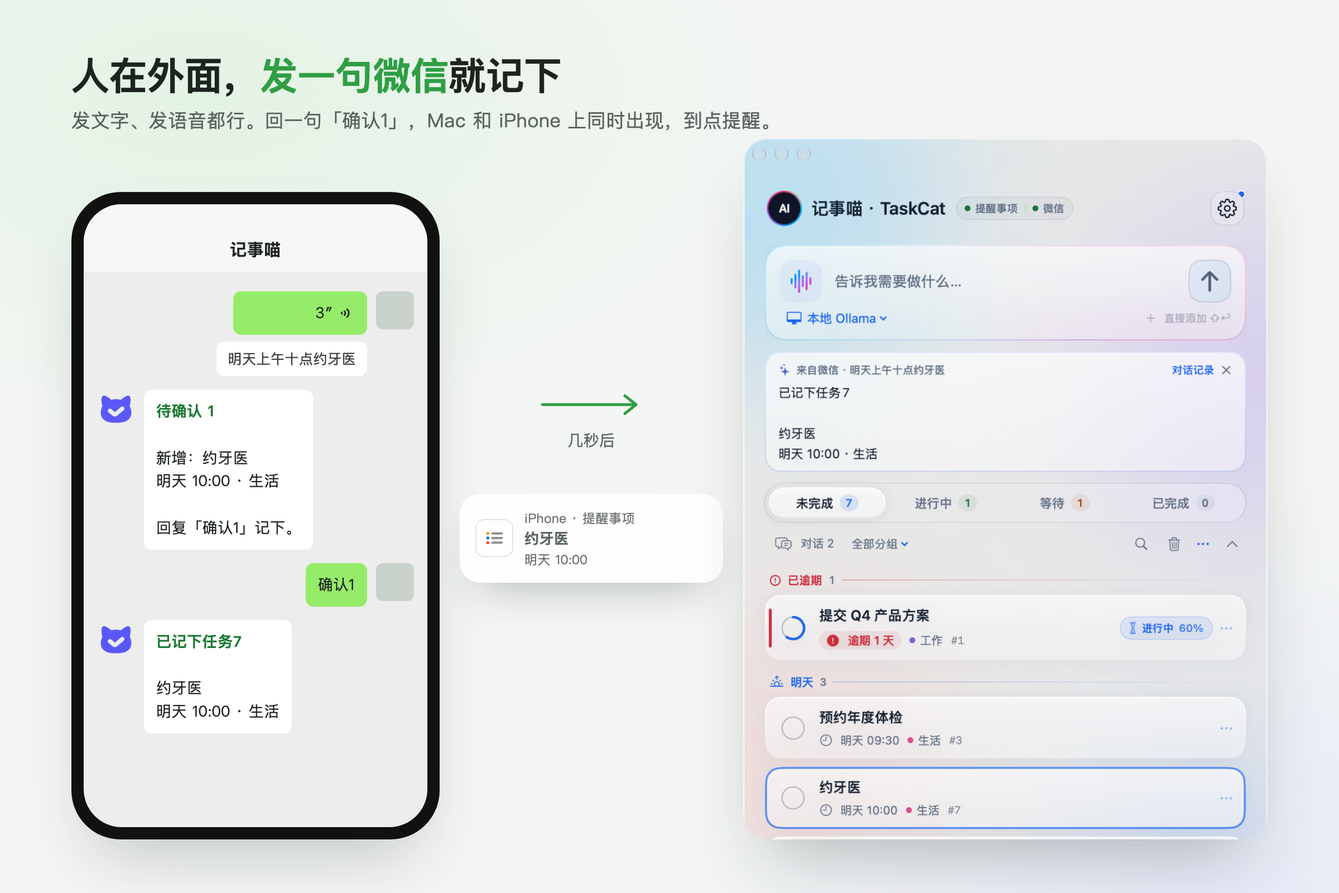
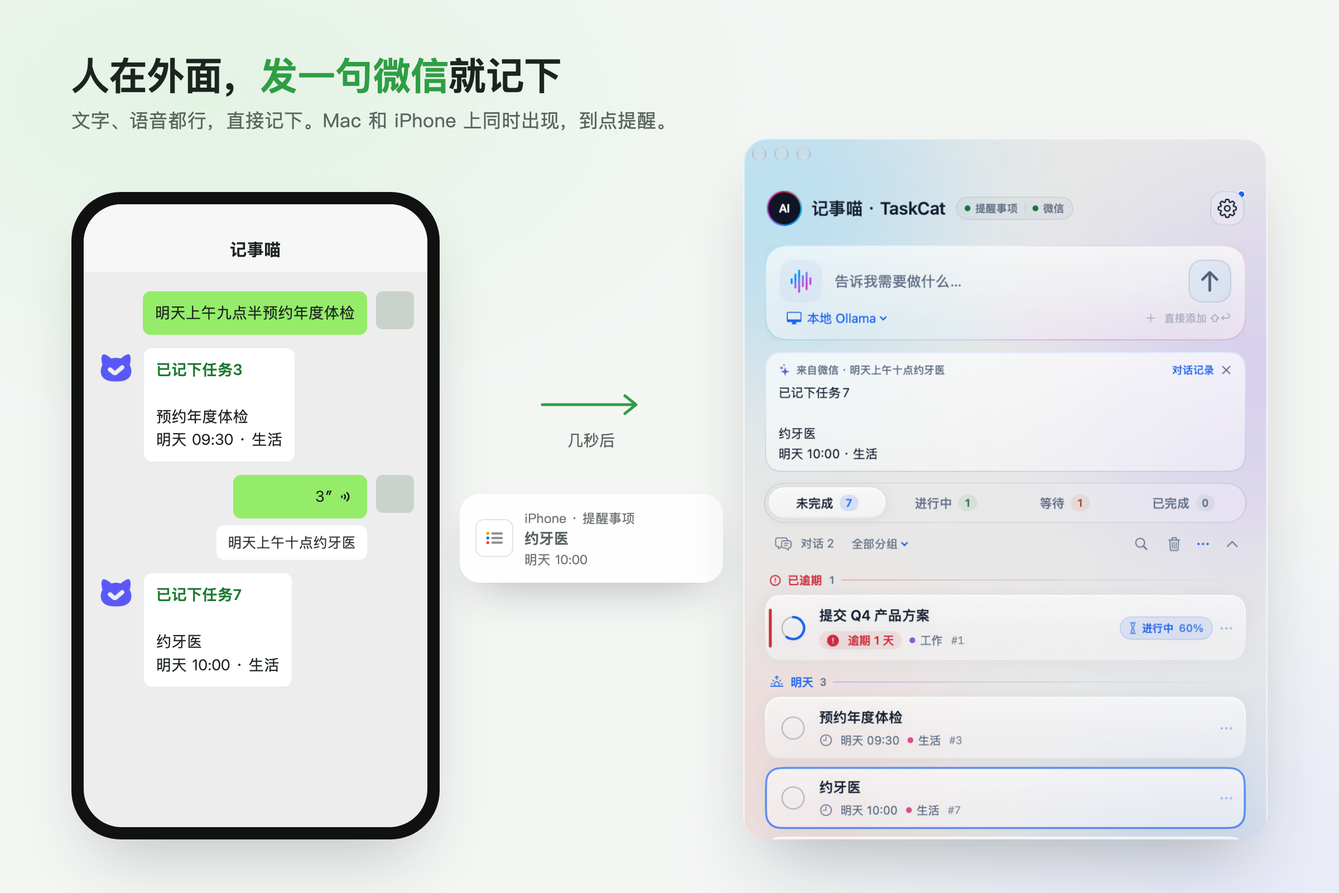
只在拿不准时让用户确认：说清楚的新增、改期、完成直接执行

diff --git a/apps/macos/Sources/TaskService.swift b/apps/macos/Sources/TaskService.swift
@@ -110,10 +110,11 @@ final class TaskService: ObservableObject {
             if let data=try? Data(contentsOf:AppPaths.preferences),let p=try? JSONDecoder().decode(ModelPreferences.self,from:data) { preferences=p }
             if let data=try? Data(contentsOf:AppPaths.root.appendingPathComponent("task-numbers.json")) {taskNumbers=try JSONDecoder().decode(TaskNumbers.self,from:data)}
             preferences.migrateProfiles()
-            // Local models always required confirmation before; keep that as the starting point.
-            if !UserDefaults.standard.bool(forKey:"TaskSecretary.confirmMigrated") {
-                if preferences.provider != "cloud" {preferences.confirmAll=true;try? AppPaths.write(preferences,to:AppPaths.preferences)}
-                UserDefaults.standard.set(true,forKey:"TaskSecretary.confirmMigrated")
+            // Earlier versions turned "confirm everything" on for local models; confirmation is now
+            // asked only when a request is uncertain, so reset that automatic default once.
+            if !UserDefaults.standard.bool(forKey:"TaskSecretary.confirmWhenUnsure") {
+                if preferences.confirmAll {preferences.confirmAll=false;try? AppPaths.write(preferences,to:AppPaths.preferences)}
+                UserDefaults.standard.set(true,forKey:"TaskSecretary.confirmWhenUnsure")
             }
             loadExperiencePreferences()
             let file=AppPaths.root.appendingPathComponent("actor.json")
@@ -272,7 +273,7 @@ final class TaskService: ObservableObject {
             processingStage="正在校验操作与日期"
             command=try ConversationRules.cleanCreation(ConversationRules.scopeQuery(ConversationRules.refine(command,input:input),input:input,groups:groups),input:input,groups:groups)
             command=try TaskCommand.decode(JSONEncoder().encode(command),expectedId:id,tasks:snapshot)
-            if preferences.confirmAll { command.requiresConfirmation=true }
+            command.requiresConfirmation=preferences.confirmAll || ConversationRules.needsConfirmation(command,input:input,tasks:snapshot,numbers:taskNumbers)
             record!.command=command
             if command.intent=="clarify" { throw AppFailure.message("还不能确定要处理哪件事，请补充具体任务名称或操作。") }
             if command.intent=="query_tasks" {
@@ -478,7 +479,7 @@ final class TaskService: ObservableObject {
         if input.hasPrefix("手动新增任务：") || input.hasPrefix("手动新增任务:") {
             let title=String(input.dropFirst(7)).trimmingCharacters(in:.whitespacesAndNewlines)
             guard !title.isEmpty else{throw AppFailure.message("请提供任务标题。")}
-            return command("create_task",patch:["title":.text(title),"groupId":.text("inbox")],confirm:true)
+            return command("create_task",patch:["title":.text(title),"groupId":.text("inbox")])
         }
         if let groupCommand=try GroupConversation.command(input,id:id,groups:groups) {return groupCommand}
         if ["查看分组","查询分组","有哪些分组","几个分组","列出分组"].contains(where:input.contains) {return command("query_groups")}
@@ -501,14 +502,14 @@ final class TaskService: ObservableObject {
                 guard let group=TaskGroup.named(part) else{throw AppFailure.message("分组名称无效。")}
                 return command("move_task",task:task.id,patch:["groupId":.text(group.rawValue)])
             }
-            if input.contains("待测试") || input.contains("待验收") {return command("update_task",task:task.id,patch:["status":.text("waiting")],date:DateSuggestion.explicitDateText(in:input),confirm:DateSuggestion.explicitDateText(in:input) != nil)}
-            if ["标记完成","已完成","完成了"].contains(where:input.contains),DateSuggestion.explicitDateText(in:input)==nil,!["明天","下周","之前","计划","准备"].contains(where:input.contains) {return command("complete_task",task:task.id,confirm:true)}
-            if input.contains("删除") {return command("delete_task",task:task.id,confirm:true)}
+            if input.contains("待测试") || input.contains("待验收") {return command("update_task",task:task.id,patch:["status":.text("waiting")],date:DateSuggestion.explicitDateText(in:input))}
+            if ["标记完成","已完成","完成了"].contains(where:input.contains),DateSuggestion.explicitDateText(in:input)==nil,!["明天","下周","之前","计划","准备"].contains(where:input.contains) {return command("complete_task",task:task.id)}
+            if input.contains("删除") {return command("delete_task",task:task.id)}
             if let range=input.range(of:#"进度\s*(10|20|30|40|50|60|70|80|90|100)\s*%?$"#,options:.regularExpression) {
                 let value=Int(input[range].filter(\.isNumber))!
-                return command("update_task",task:task.id,patch:["progress":.number(value)],confirm:true)
+                return command("update_task",task:task.id,patch:["progress":.number(value)])
             }
-            if ["重新打开","撤销完成","恢复待办"].contains(where:input.contains) {return command("reopen_task",task:task.id,confirm:true)}
+            if ["重新打开","撤销完成","恢复待办"].contains(where:input.contains) {return command("reopen_task",task:task.id)}
 
         }
         if ConversationRules.isQuery(input) {

diff --git a/docs/site.js b/docs/site.js
@@ -17,7 +17,7 @@
     {n:3,title:'预约年度体检',meta:'生活',when:'明天 09:30',done:false},
     {n:5,title:'整理周会纪要发给团队',meta:'工作',when:'周五 10:00',done:false}
   ];
-  let pending=null,code=0,model='本地 Ollama';
+  let model='本地 Ollama';
   const reduce=matchMedia('(prefers-reduced-motion: reduce)').matches;
   const wait=ms=>new Promise(r=>setTimeout(r,reduce?0:ms));
   function add(text,me=false){
@@ -54,32 +54,20 @@
     return {title,when:`${day} ${String(h).padStart(2,'0')}:${String(m).padStart(2,'0')}`,group};
   }
   function reply(text){
-    const confirm=text.match(/^(确认|取消)\s*(\d+)$/),move=text.match(/任务\s*(\d+).*改到(.+)$/),done=text.match(/任务\s*(\d+)\s*(?:标记)?完成/);
-    if(confirm){
-      if(!pending||Number(confirm[2])!==pending.code)return '没有找到这条待确认的操作。';
-      const p=pending;pending=null;
-      if(confirm[1]==='取消')return '已取消，任务没有改动。';
-      if(p.kind==='add'){
-        const n=Math.max(...tasks.map(t=>t.n))+1;
-        tasks.push({n,title:p.item.title,meta:p.item.group,when:p.item.when,done:false});
-        return `已记下任务${n}\n\n${p.item.title}\n${p.item.when} · ${p.item.group}\n\n已同步到 Mac 和 iPhone 的提醒事项，到点会提醒你。`;
-      }
-      if(p.kind==='move'){p.task.when=p.when;return `已调整任务${p.task.n}\n\n${p.task.title}\n${p.when}`;}
-      p.task.done=true;return `已完成任务${p.task.n}\n\n${p.task.title}\n又少一件惦记的事。`;
-    }
+    const move=text.match(/任务\s*(\d+).*改到(.+)$/),done=text.match(/任务\s*(\d+)\s*(?:标记)?完成/);
     if(move||done){
       const n=Number((move||done)[1]),task=tasks.find(t=>t.n===n);
       if(!task)return `没有找到任务${n}，先发“这周还有什么”核对编号。`;
       if(done&&task.done)return `任务${n}已经完成了。`;
-      code+=1;
-      if(move){const when=move[2].replace(/[。！!]$/,'').trim()||'下周一';pending={code,kind:'move',task,when:when.includes('下周一')?'下周一 09:30':when};return `待确认 ${code}\n\n${task.title}\n改到 ${pending.when}\n\n回复「确认${code}」执行，或「取消${code}」。`;}
-      pending={code,kind:'done',task};return `待确认 ${code}\n\n标记完成：${task.title}\n\n回复「确认${code}」执行，或「取消${code}」。`;
+      if(move){const when=move[2].replace(/[。！!]$/,'').trim()||'下周一';task.when=when.includes('下周一')?'下周一 09:30':when;return `已调整任务${n}\n\n${task.title}\n${task.when}`;}
+      task.done=true;return `已完成任务${n}\n\n${task.title}\n又少一件惦记的事。`;
     }
-    // Dated commands always ask for a short confirmation first, as in the app.
+    // Clear requests apply at once, as in the app; it only asks when unsure.
     const item=capture(text);
     if(item){
-      code+=1;pending={code,kind:'add',item};
-      return `待确认 ${code}\n\n新增：${item.title}\n${item.when} · ${item.group}\n\n回复「确认${code}」记下。`;
+      const n=Math.max(...tasks.map(t=>t.n))+1;
+      tasks.push({n,title:item.title,meta:item.group,when:item.when,done:false});
+      return `已记下任务${n}\n\n${item.title}\n${item.when} · ${item.group}\n\n已同步到 Mac 和 iPhone 的提醒事项，到点会提醒你。`;
     }
     if(/模型/.test(text)){
       if(/切换|换成|改用/.test(text)){model=/云/.test(text)?'云端模型':'本地 Ollama';return `已切换到 ${model}。`;}
@@ -92,15 +80,9 @@
   async function send(text){
     text=text.trim();if(!text||busy)return;busy=true;add(text,true);input.value='';
     await wait(420);add(reply(text));busy=false;
-    // Offer the confirmation reply as the next suggestion so the flow is one click.
-    const confirmButton=document.getElementById('confirm-suggest');
-    if(pending){
-      const b=confirmButton||Object.assign(document.createElement('button'),{type:'button',id:'confirm-suggest'});
-      b.textContent=`确认${pending.code}`;b.dataset.say=`确认${pending.code}`;document.getElementById('suggest').prepend(b);
-    } else confirmButton?.remove();
   }
   form.addEventListener('submit',e=>{e.preventDefault();send(input.value);});
   document.getElementById('suggest').addEventListener('click',e=>{const b=e.target.closest('button');if(b)send(b.dataset.say);});
   // Open with one capture so the panel shows the main use before anyone types.
-  const first='明天下午三点交季度报告';add(first,true);add(reply(first));add('确认1',true);add(reply('确认1'));
+  const first='明天下午三点交季度报告';add(first,true);add(reply(first));
 })();

diff --git a/docs/index.html b/docs/index.html
@@ -71,7 +71,7 @@
       </div>
       <div class="pain reveal">
         <p class="before">人在外面想起一件事，只能先发给文件传输助手，回到电脑前再抄一遍。多半就忘了抄。</p>
-        <p class="after">直接发微信给记事喵：“明天下午三点交方案”。回一句“确认1”，任务就进了 Mac 和 iPhone 的提醒事项。</p>
+        <p class="after">直接发微信给记事喵：“明天下午三点交方案”。几秒后，任务就进了 Mac 和 iPhone 的提醒事项。</p>
       </div>
     </div>
   </section>
@@ -112,8 +112,8 @@
     <div class="wrap wechat-grid">
       <div class="wechat-copy reveal">
         <h2 id="wechat-title">微信随手记。</h2>
-        <p>出门在外，想到什么就给记事喵发一句话。它理解时间和分组，先回你一条核对，回复“确认1”就记下：Mac 菜单栏和 iPhone 提醒事项同时出现，到点照常提醒。</p>
-        <p>带时间的指令都会先让你核对一眼，免得听错日期。查这周安排、改时间、标完成，也都在同一个对话里。</p>
+        <p>出门在外，想到什么就给记事喵发一句话。它理解时间和分组，直接记下：Mac 菜单栏和 iPhone 提醒事项同时出现，到点照常提醒。</p>
+        <p>只有拿不准的时候才会问你，比如没说清是哪件事，或者日期太含糊。查这周安排、改时间、标完成，也都在同一个对话里。</p>
         <p class="note">在设置里点“连接微信”，手机扫码即可，不需要另外安装。右边是浏览器里的本地演示，不连接微信或模型；真实使用需要 Mac 上的记事喵在运行。</p>
       </div>
       <div class="phone reveal" aria-label="微信对话演示">
@@ -175,7 +175,7 @@ cd taskcat && bash scripts/build-app.sh</code></pre>
       <details class="reveal"><summary>微信怎么连接？要装别的东西吗？</summary><p>不用。在设置的“微信”里点“连接微信”，用手机微信扫码确认就好。连接按腾讯官方开放的 iLink 协议实现，登录信息只存在你这台 Mac 上。同一个微信请只连接一台 Mac。</p></details>
       <details class="reveal"><summary>Mac 不常开，还能用吗？</summary><p>可以。任务同步到 iPhone 的提醒事项后，手机上照样能看、能改、能收到通知。只有 AI 理解、今日提醒和微信入口需要 Mac 上的记事喵在运行。</p></details>
       <details class="reveal"><summary>支持哪些 Mac？有 iPhone App 吗？</summary><p>macOS 14 以上，Apple Silicon 已实测，Intel 尚未验收。没有独立的 iPhone App，手机端用系统提醒事项。</p></details>
-      <details class="reveal"><summary>AI 理解错了怎么办？</summary><p>会改动任务的指令默认先给你确认，核对后再执行。点完成后几秒内也能撤销，删除的任务进回收站，可以恢复。</p></details>
+      <details class="reveal"><summary>AI 理解错了怎么办？</summary><p>拿不准的时候它会先问你；每条回复都写明记下的时间，不对就直接说“任务7改到周五”。点完成后几秒内也能撤销，删除的任务进回收站，可以恢复。</p></details>
     </div>
   </section>
 </main>

diff --git a/apps/macos/Sources/ConversationLogic.swift b/apps/macos/Sources/ConversationLogic.swift
@@ -61,6 +61,17 @@ struct ConversationRules {
         record.source==source && record.phase=="awaiting_confirmation" &&
         (record.confirmationNumber.map(String.init)==code || code.count==8 && record.id.hasPrefix(code))
     }
+    /// Ask only when unsure: the model said so, the target task was guessed rather than named,
+    /// or the date came from the model instead of the message. Group changes always ask.
+    static func needsConfirmation(_ c:TaskCommand,input:String,tasks:[ManagedTask],numbers:TaskNumbers)->Bool {
+        if c.requiresConfirmation || ["rename_group","delete_group"].contains(c.intent) {return true}
+        if let id=c.taskId,let task=tasks.first(where:{$0.id==id}) {
+            let named=taskNumber(input).map{numbers.values[id]==$0} ?? false
+            if !named && !input.localizedCaseInsensitiveContains(task.title) {return true}
+        }
+        if let date=c.dateText,DateSuggestion.date(for:date)==nil || DateSuggestion.explicitDateText(in:input)==nil {return true}
+        return false
+    }
     static func taskNumber(_ text:String)->Int? {
         guard let range=text.range(of:#"(?:任务|待办)\s*#?\s*[0-9]+"#,options:.regularExpression) else{return nil}
         let digits=text[range].filter{$0.isNumber};return Int(digits)
@@ -112,7 +123,7 @@ struct ConversationRules {
         }
         let extracted=["create_task","update_task","complete_task","reopen_task","move_task"].contains(intent) ? DateSuggestion.explicitDateText(in:input) : nil
         return TaskCommand(operationId:c.operationId,intent:intent,taskId:c.taskId,patch:patch,
-            dateText:extracted ?? c.dateText,requiresConfirmation:c.requiresConfirmation || extracted != nil)
+            dateText:extracted ?? c.dateText,requiresConfirmation:c.requiresConfirmation)
     }
 }
 

diff --git a/apps/macos/Sources/Domain.swift b/apps/macos/Sources/Domain.swift
@@ -163,16 +163,13 @@ struct TaskCommand: Codable, Equatable {
         }
         if case .number(let progress)=c.patch["progress"] {
             c.patch["progress"] = .number(max(10,min(100,Int((Double(progress)/10).rounded())*10)))
-            if progress >= 95 {c.patch["status"] = .text("done");c.requiresConfirmation=true}
+            if progress >= 95 {c.patch["status"] = .text("done")}
         }
         let restricted: [String: Set<String>] = ["rename_group":["groupId","newGroupId"],"delete_group":["groupId"],"create_group":["groupId"],"query_groups":[],"delete_task": [], "complete_task": ["status"], "reopen_task": ["status"], "move_task": ["groupId"], "query_tasks": ["groupId", "status"]]
         if let allowed=restricted[c.intent], !Set(c.patch.keys).isSubset(of:allowed) { throw AppFailure.message("模型命令包含与操作不符的修改，未执行。") }
         if c.intent=="complete_task", let status=c.text("status"),status != "done" { throw AppFailure.message("完成命令的状态不一致，未执行。") }
         if c.intent=="reopen_task", let status=c.text("status"),status != "todo" { throw AppFailure.message("重新打开命令的状态不一致，未执行。") }
         if c.intent == "move_task", c.text("groupId") == nil { throw AppFailure.message("请说明要移动到哪个分组。") }
-        if ["delete_task","complete_task","reopen_task"].contains(c.intent) || c.text("status") == "done" || c.text("status") == "cancelled" || c.dateText != nil || c.patch["title"] != nil && c.intent != "create_task" {
-            c.requiresConfirmation = true
-        }
         return c
     }
 }

diff --git a/apps/macos/Sources/Interface.swift b/apps/macos/Sources/Interface.swift
@@ -707,8 +707,8 @@ struct SettingsView:View {
                 Button("测试连接"){Task{await service.testModel()}}.buttonStyle(ConsoleButton())
                 Text(service.modelTestNotice).font(.system(size:11)).foregroundStyle(service.modelTestNotice.hasPrefix("连接成功") ? palette.success : palette.muted).lineLimit(2)
             }.disabled(service.uiBusy)
-            switchRow("AI 修改任务前先让我确认",$service.preferences.confirmAll)
-            note("本地模型理解偶有偏差，建议开启。查询类请求不需要确认。")
+            switchRow("每次修改任务都先让我确认",$service.preferences.confirmAll)
+            note("默认只在拿不准时确认：没说清是哪件任务、日期说得含糊，或要改动分组。")
             note("Key 只保存在这台 Mac 的应用配置目录，不进入备份或同步。使用云端模型时，会发送你的输入、近期操作和最多 100 项相关任务的标题、状态与分组；不发送备注。不配置模型也可以手动管理任务。")
         }.padding(18).consoleCard()
     }

diff --git a/tests/test_app_domain.py b/tests/test_app_domain.py
@@ -73,8 +73,10 @@ def test_bad_or_unrelated_changes_do_not_cross_boundary(domain_cli,tmp_path,c):
  {'intent':'delete_task','patch':{}},{'intent':'complete_task','patch':{}},
  {'intent':'reopen_task','patch':{}},{'patch':{'status':'done'}},
  {'patch':{'title':'新的打印模板'}},{'dateText':'下周五'}])
-def test_confirmation_cannot_be_bypassed_by_model(domain_cli,tmp_path,changes):
-    assert run(domain_cli,tmp_path,command(**changes))['requiresConfirmation'] is True
+def test_task_changes_follow_the_model_uncertainty_flag(domain_cli,tmp_path,changes):
+    # Whether to ask is decided later from the message itself (ConversationRules.needsConfirmation).
+    assert run(domain_cli,tmp_path,command(**changes))['requiresConfirmation'] is False
+    assert run(domain_cli,tmp_path,command(**changes,requiresConfirmation=True))['requiresConfirmation'] is True
 
 @pytest.mark.parametrize('url,valid,endpoint',[
  ('https://example.test/v1',True,'https://example.test/v1/chat/completions'),
@@ -123,10 +125,9 @@ def test_group_alias_normalizes_before_query_and_write(domain_cli,tmp_path):
 
 
 @pytest.mark.parametrize('top',['周日晚上8:00',None])
-def test_local_model_nested_date_canonicalizes_and_still_requires_confirmation(domain_cli,tmp_path,top):
+def test_local_model_nested_date_canonicalizes(domain_cli,tmp_path,top):
     result=run(domain_cli,tmp_path,command(patch={'dateText':'周日晚上8:00'},dateText=top))
     assert result['dateText']=='周日晚上8:00' and result['patch']=={}
-    assert result['requiresConfirmation'] is True
 
 
 @pytest.mark.parametrize('patch,top',[
@@ -156,10 +157,10 @@ def test_inbox_and_permanent_deletion_cannot_be_bypassed_by_model(domain_cli,tmp
     run(domain_cli,tmp_path,command(intent=intent,taskId=None if 'group' in intent else TASK,patch=patch),expected=2)
 
 @pytest.mark.parametrize('progress,result',[(1,10),(24,20),(35,40),(87,90),(94,90),(95,100),(100,100)])
-def test_progress_uses_ten_point_steps_and_completion_confirmation(domain_cli,tmp_path,progress,result):
+def test_progress_uses_ten_point_steps_and_full_progress_completes(domain_cli,tmp_path,progress,result):
     c=run(domain_cli,tmp_path,command(patch={'progress':progress}))
     assert c['patch']['progress']==result
-    if result==100:assert c['patch']['status']=='done' and c['requiresConfirmation']
+    if result==100:assert c['patch']['status']=='done' and not c['requiresConfirmation']
 
 
 def test_unsaved_profile_origin_changes_cannot_reuse_old_credentials(domain_cli):

diff --git a/tests/test_conversation_rules.py b/tests/test_conversation_rules.py
@@ -95,6 +95,11 @@ def rules_cli(tmp_path_factory):
   case "refine":
    let c=TaskCommand(operationId:"op",intent:"complete_task",taskId:"a",patch:["status":.text("done")],dateText:nil,requiresConfirmation:false)
    let refined=ConversationRules.refine(c,input:a[2]);print(refined.intent+":"+(refined.text("status") ?? "")+":"+(refined.dateText ?? "nil"))
+  case "needs":
+   var n=TaskNumbers();n.assign(tasks)
+   let target:String?=a[3]=="-" ? nil : a[3]
+   let c=TaskCommand(operationId:"op",intent:a[2],taskId:target,patch:a[2]=="create_task" ? ["title":.text("合成")] : a[2]=="delete_group" ? ["groupId":.text("wenshu")] : [:],dateText:a[5]=="-" ? nil : a[5],requiresConfirmation:a[6]=="model-unsure")
+   print(ConversationRules.needsConfirmation(c,input:a[4],tasks:tasks,numbers:n) ? "ask" : "apply")
   case "group":print(TaskGroup(rawValue:a[2]).map{$0.rawValue+"|"+$0.calendarTitle+"|"+$0.uuid} ?? "nil")
   case "defaults":print(TaskGroup.allCases.map(\.calendarTitle).joined(separator:","))
   default: fatalError()
@@ -274,3 +279,19 @@ def test_search_matches_title_notes_or_group(rules_cli,query,expected):assert ru
  ('2026-10-23T09:00:00Z','monday','2026-10-26T09:00:00Z'),     # today 17:00 -> next Monday 17:00
  ('none','monday','2026-10-26T01:00:00Z')])
 def test_postpone_keeps_time_of_day(rules_cli,due,mode,expected):assert run(rules_cli,'postpone',due,mode)==expected
+
+# Numbers follow task ids: a=1, b=2. Only uncertain requests ask the user to confirm.
+@pytest.mark.parametrize('intent,task,text,date,flag,expected',[
+ ('create_task','-','明天上午十点约牙医','明天上午十点','-','apply'),
+ ('create_task','-','买猫粮','-','-','apply'),
+ ('update_task','a','任务1改到明天下午三点','明天下午三点','-','apply'),
+ ('complete_task','a','合成_任务_a 做完了','-','-','apply'),
+ ('delete_task','b','任务2删除','-','-','apply'),
+ ('update_task','a','那个改到明天下午三点','明天下午三点','-','ask'),
+ ('update_task','a','任务2改到明天','明天','-','ask'),
+ ('create_task','-','下个月找时间约牙医','下个月','-','ask'),
+ ('create_task','-','月底约牙医','月底','-','ask'),
+ ('create_task','-','约牙医','-','model-unsure','ask'),
+ ('delete_group','-','删除分组wenshu','-','-','ask')])
+def test_confirmation_only_when_uncertain(rules_cli,intent,task,text,date,flag,expected):
+    assert run(rules_cli,'needs',intent,task,text,date,flag)==expected

diff --git a/README.md b/README.md
@@ -44,7 +44,7 @@
 
 ### 微信随手记
 
-出门在外，想到什么就给记事喵发一句：“周四上午十点约牙医。”它理解时间和分组，回你一条核对；回复“确认1”，Mac 菜单栏和 iPhone 提醒事项同时出现，到点照常提醒。带时间的指令都会先核对一眼，免得听错日期。查这周安排、改时间、标完成也在同一个对话里。
+出门在外，想到什么就给记事喵发一句：“周四上午十点约牙医。”它理解时间和分组，直接记下：Mac 菜单栏和 iPhone 提醒事项同时出现，到点照常提醒。只有拿不准时才会先问你，比如没说清是哪件事，或日期太含糊。查这周安排、改时间、标完成也在同一个对话里。
 
 在设置的“微信”里点“连接微信”，用手机微信扫码即可，不需要另外安装任何东西；语音消息同样能记。
 
@@ -124,7 +124,7 @@ python3 -m venv .venv
 ## 已知边界
 
 - 没有独立的 iOS App；手机端通过系统提醒事项查看和接收通知。
-- AI 理解可能出错：修改类操作默认先确认，请核对后再执行。
+- AI 理解可能出错：拿不准时会先问你；每条回复都写明记下的内容和时间，不对可以直接改。设置里也能改成每次修改都先确认。
 - 含重复规则或位置提醒的复杂任务，暂不支持完整的快照删除与恢复。
 - 两台 Mac 的扩展同步遇到真实并发冲突时会暂停修改，等待核对。
 

diff --git a/CONTRIBUTING.md b/CONTRIBUTING.md
@@ -4,7 +4,7 @@
 
 核心为 Swift / SwiftUI / EventKit，元数据日志实现位于 `poc/metadata-journal/OperationJournal.swift`（保留历史路径）。菜单栏与微信两个入口共用 `TaskService`，不要在微信连接里另写一套任务存储。
 
-改动任务执行逻辑时，保留：稳定业务ID、操作幂等、危险动作确认、快照先持久化再删除、原生回读后确认成功、缺前序/冲突时暂停写入。不要以模型输出作为可直接执行的权限。
+改动任务执行逻辑时，保留：稳定业务ID、操作幂等、拿不准时先确认、分组改动必确认、快照先持久化再删除、原生回读后确认成功、缺前序/冲突时暂停写入。不要以模型输出作为可直接执行的权限。
 
 运行 `python3 -m pytest tests -q`（在已安装pytest的测试环境中）和 `bash scripts/build-app.sh`。测试只使用合成数据；不得默认读取个人提醒事项、请求Keychain、扫码或发送微信。若需要真机验收，区分自动化、代码检查与人工结果。
 
